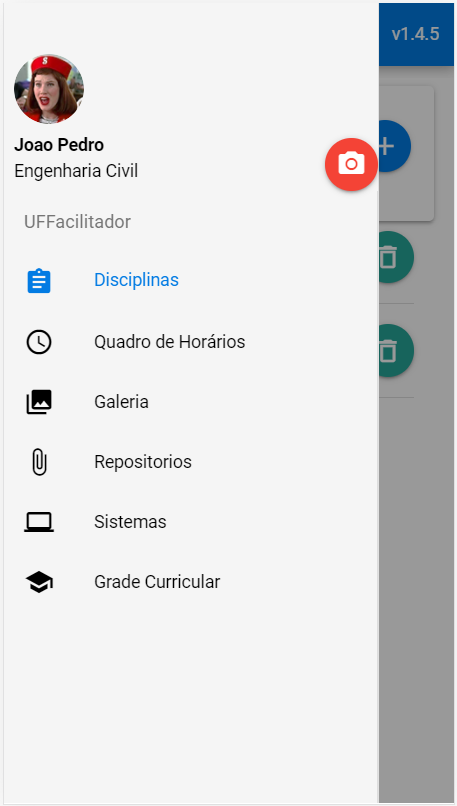
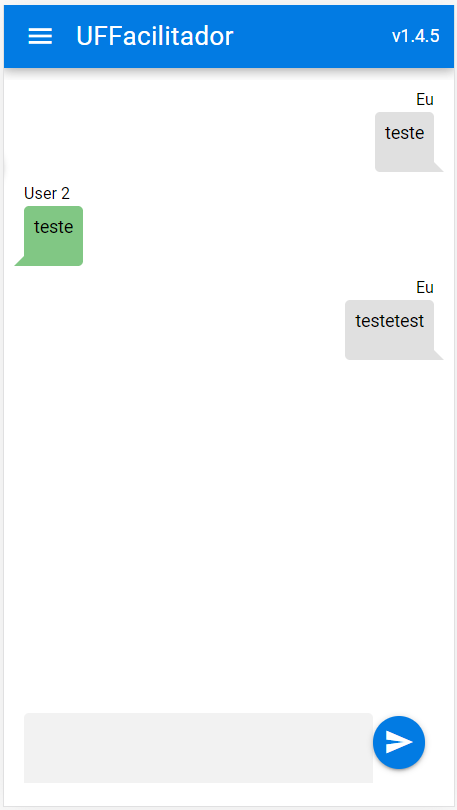
new chat

diff --git a/src/pages/Chat.vue b/src/pages/Chat.vue
@@ -1,0 +1,74 @@
+<template>
+  <div class="q-pa-md row justify-center">
+    <div class="col-12">
+      <template v-for="(item, key) in msgs">
+        <q-chat-message :key="key"
+          :name="user === item.user? 'Eu': renderUser(item.user)"
+          :text="[item.mensagem]"
+          :sent="user === item.user?true:false"
+        />
+      </template>
+    </div>
+    <div class="col-12">
+        <q-input type="text" v-model="msg_send" class="inline" style="width:85%" filled/>
+        <q-btn class="col-1" round color="primary" icon="send" @click="send"/>
+    </div>
+  </div>
+</template>
+<script>
+export default {
+  data () {
+    return {
+      user: 'http://127.0.0.1:8000/users/1/',
+      msgs: [],
+      msg_send: ''
+    }
+  },
+  beforeMount () {
+    this.loadMessages()
+  },
+  methods: {
+    loadMessages: function (offset = false) {
+      let id = 0
+      if (offset) {
+        let last = this.msgs.slice(-1)[0]
+        id = last.url.split('/')
+        id = id.slice(-2)[0]
+      }
+      fetch(`http://127.0.0.1:8000/chat/?offset=${id}`).then(response => {
+        response.json().then(data => {
+          this.msgs = this.msgs.concat(data.results)
+        })
+      })
+      setTimeout(() => {
+        this.loadMessages(true)
+      }, 20000)
+    },
+    send: async function () {
+      if (this.msg_send === '') return
+      await fetch(`http://127.0.0.1:8000/chat/`, {
+        method: 'post',
+        headers: { 'content-type': 'application/json' },
+        body: JSON.stringify({ channel: 'main_channel', user: this.user, mensagem: this.msg_send })
+      }).then(response => {
+        return response.json()
+      }).then(data => {
+        let obj = { channel: data.channel, user: data.user, mensagem: data.mensagem, url: data.url }
+        this.msgs.push(obj)
+      })
+      this.msg_send = ''
+    },
+    renderUser: function (el) {
+      if (el === 'http://127.0.0.1:8000/users/1/') {
+        return 'User 1'
+      }
+      if (el === 'http://127.0.0.1:8000/users/2/') {
+        return 'User 2'
+      }
+      if (el === 'http://127.0.0.1:8000/users/3/') {
+        return 'User 3'
+      }
+    }
+  }
+}
+</script>

diff --git a/src/pages/PageHorasAula.vue b/src/pages/PageHorasAula.vue
@@ -43,6 +43,9 @@
                       <q-btn icon="access_time" round color="teal">
                         <q-popup-proxy transition-show="scale" transition-hide="scale">
                           <q-time v-model="item.hora_inicio" format24h>
+                            <div class="row items-center justify-end q-gutter-sm">
+                              <q-btn label="OK" color="primary" flat v-close-popup />
+                            </div>
                           </q-time>
                         </q-popup-proxy>
                       </q-btn>
@@ -56,6 +59,9 @@
                       <q-btn icon="access_time" round color="red">
                         <q-popup-proxy transition-show="scale" transition-hide="scale">
                           <q-time v-model="item.hora_fim" format24h>
+                            <div class="row items-center justify-end q-gutter-sm">
+                              <q-btn label="OK" color="primary" flat v-close-popup />
+                            </div>
                           </q-time>
                         </q-popup-proxy>
                       </q-btn>

diff --git a/src/pages/QuadroHorarios.vue b/src/pages/QuadroHorarios.vue
@@ -5,7 +5,8 @@
 </style>
 <template>
   <div class="full-width q-pa-md" style="max-width: 800px">
-     <q-list bordered class="rounded-borders">
+    <q-pull-to-refresh @refresh="refresh">
+    <q-list bordered class="rounded-borders">
       <q-expansion-item
         expand-separator
         label="Segunda-feira"
@@ -143,6 +144,7 @@
         </q-card>
       </q-expansion-item>
     </q-list>
+    </q-pull-to-refresh>
   </div>
 </template>
 <script>
@@ -157,6 +159,10 @@ export default {
     // ...mapGetters('principal', ['getDisciplinaByUrl'])
   },
   methods: {
+    refresh: async function (done) {
+      await this.$store.dispatch('principal/loadData')
+      done()
+    },
     renderItems: function (day) {
       let newArray = this.items.filter(function (el) {
         return el.dia === day

diff --git a/src/layouts/MyLayout.vue b/src/layouts/MyLayout.vue
@@ -89,6 +89,14 @@
               <q-item-label>{{$t('menu.grade_curricular') }}</q-item-label>
             </q-item-section>
           </q-item>
+          <q-item clickable v-ripple to="/chat">
+            <q-item-section avatar>
+              <q-icon name="message" />
+            </q-item-section>
+            <q-item-section>
+              <q-item-label>{{$t('menu.chat') }}</q-item-label>
+            </q-item-section>
+          </q-item>
         </q-list>
       </q-scroll-area>
     </q-drawer>

diff --git a/src/router/routes.js b/src/router/routes.js
@@ -15,6 +15,13 @@ const routes = [
     ]
   },
   {
+    path: '/chat',
+    component: () => import('layouts/MyLayout.vue'),
+    children: [
+      { path: '', component: () => import('pages/Chat.vue') }
+    ]
+  },
+  {
     path: '/horasaula',
     component: () => import('layouts/HorasAula.vue'),
     children: [

diff --git a/src/i18n/en-us/index.js b/src/i18n/en-us/index.js
@@ -11,6 +11,7 @@ export default {
     galeria: 'Galeria',
     repositorios: 'Repositorios',
     sistemas: 'Sistemas',
-    grade_curricular: 'Grade Curricular'
+    grade_curricular: 'Grade Curricular',
+    chat: 'Chat'
   }
 }

diff --git a/README.md b/README.md
@@ -24,7 +24,3 @@ quasar build
 
 ### Customize the configuration
 See [Configuring quasar.conf.js](https://quasar.dev/quasar-cli/quasar-conf-js).
-
-### Screenshots
-
-![Alt text](/screenshot/2019-12-01 010010.png?raw=true)
